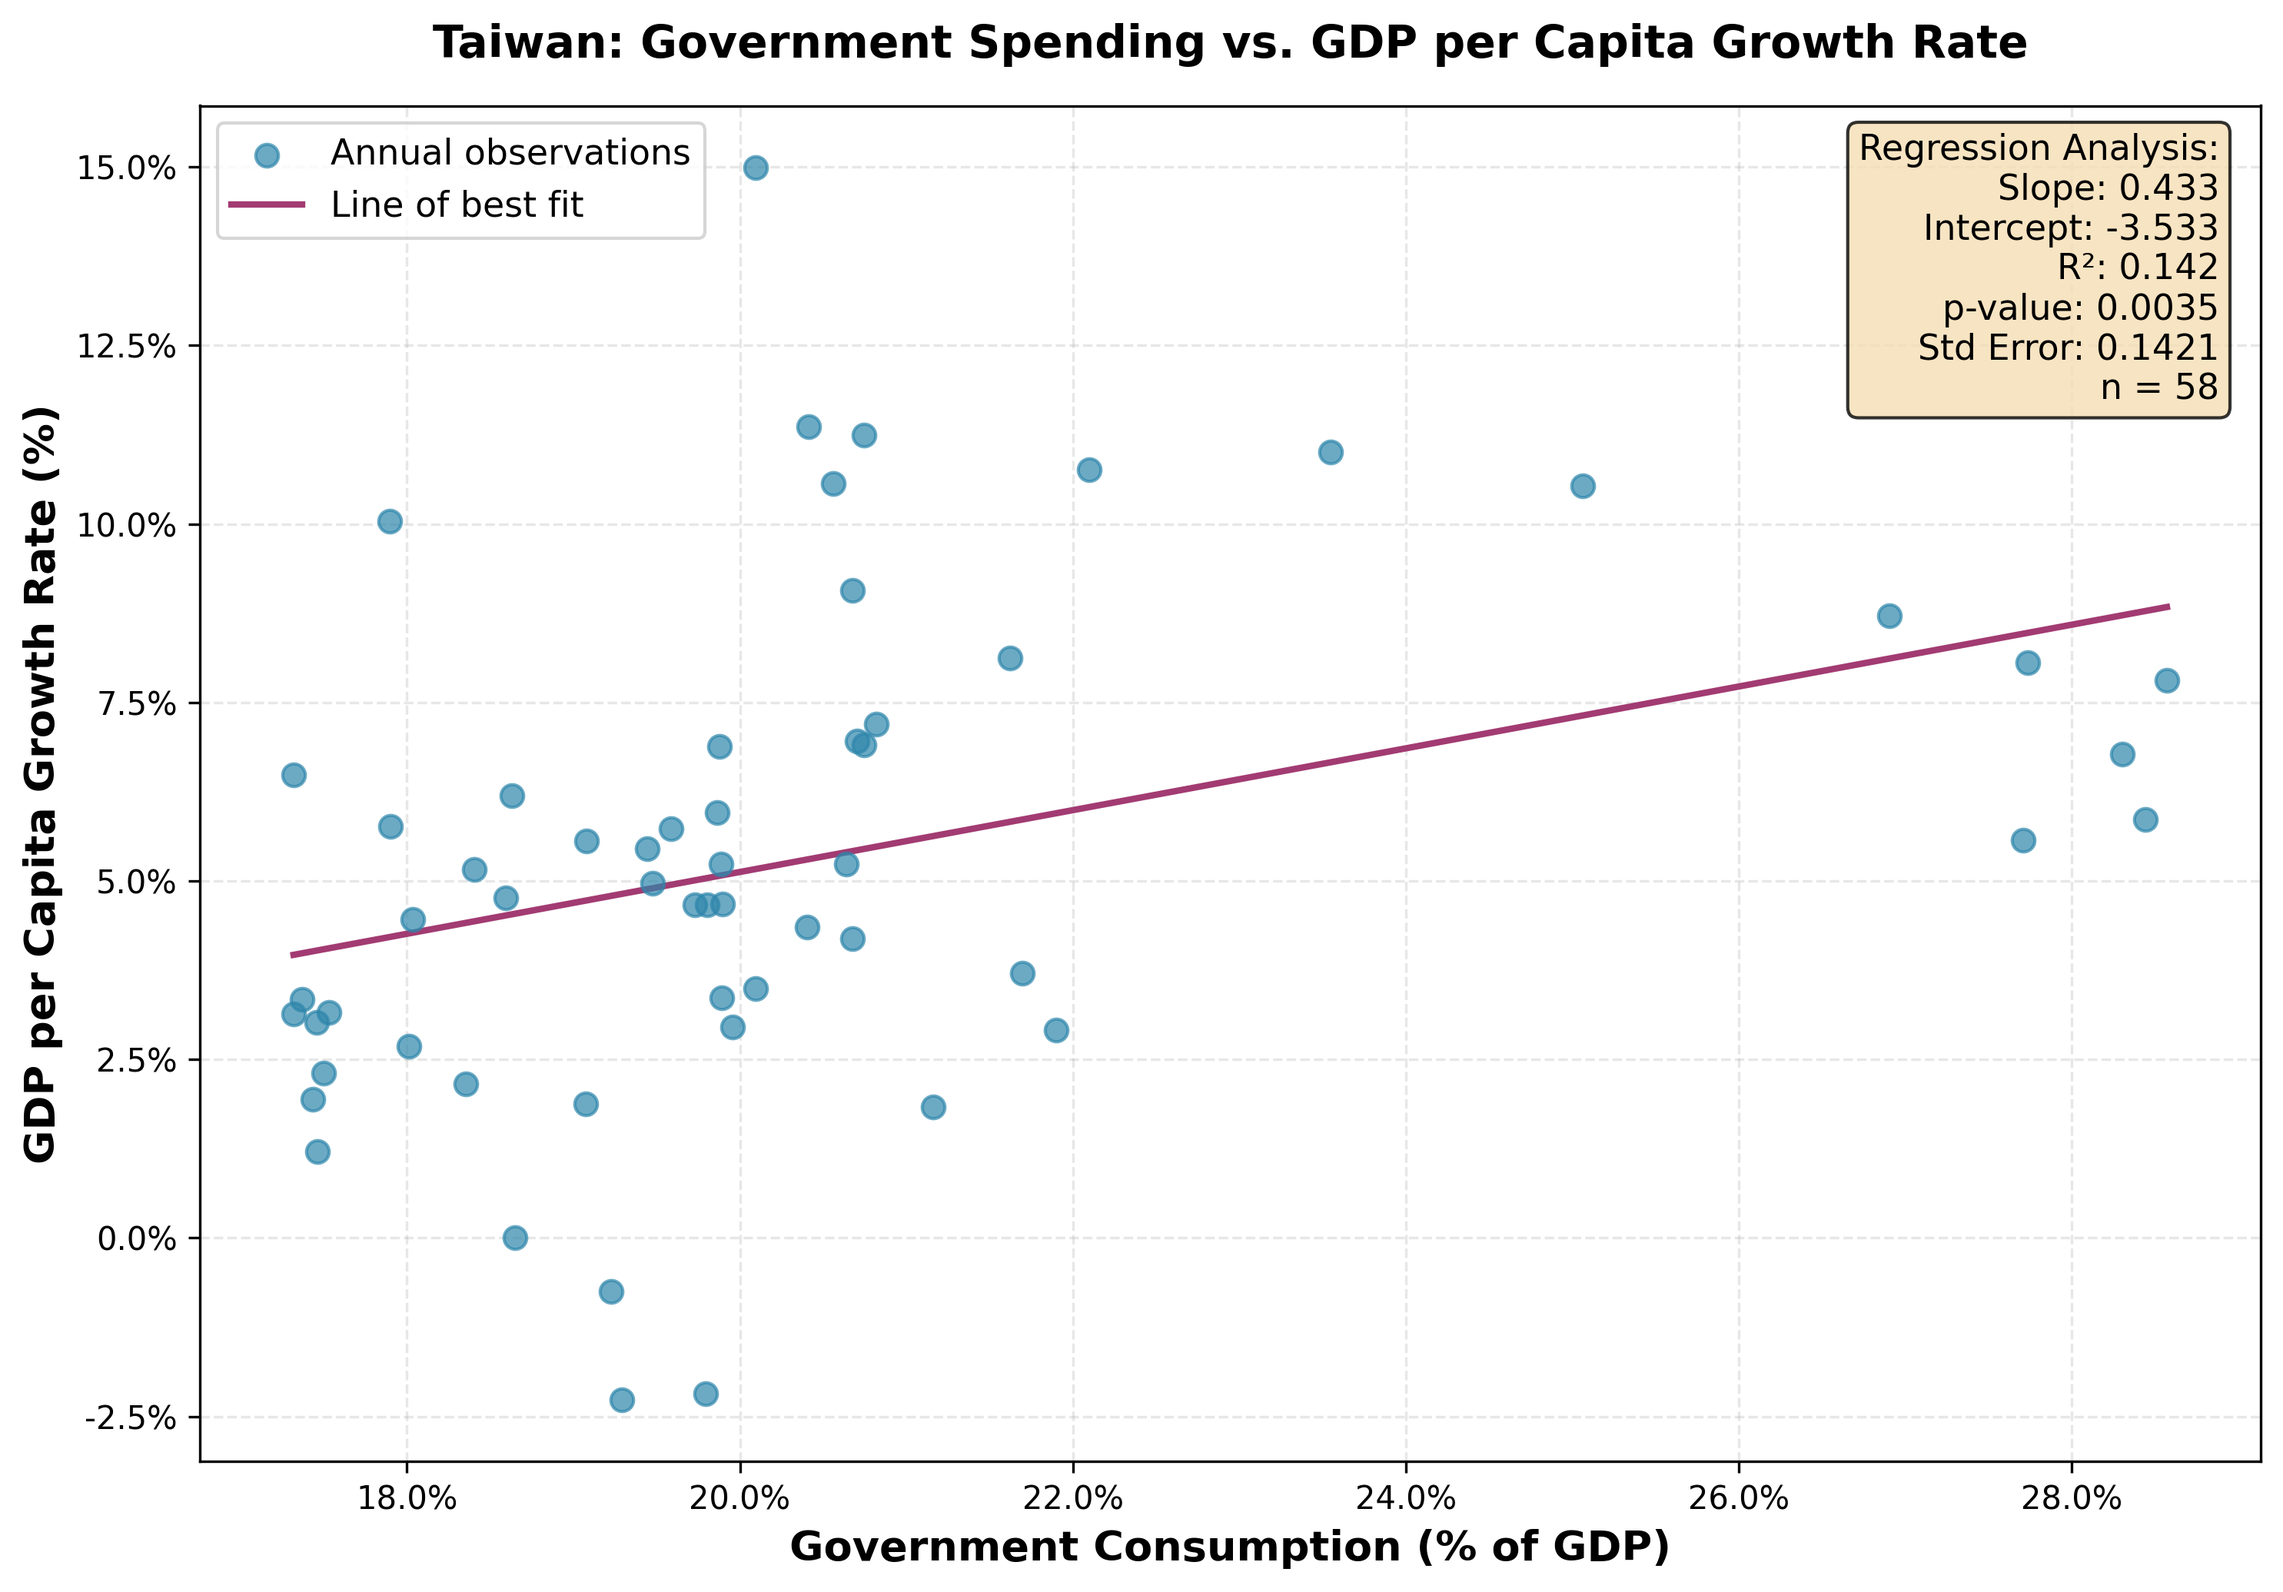
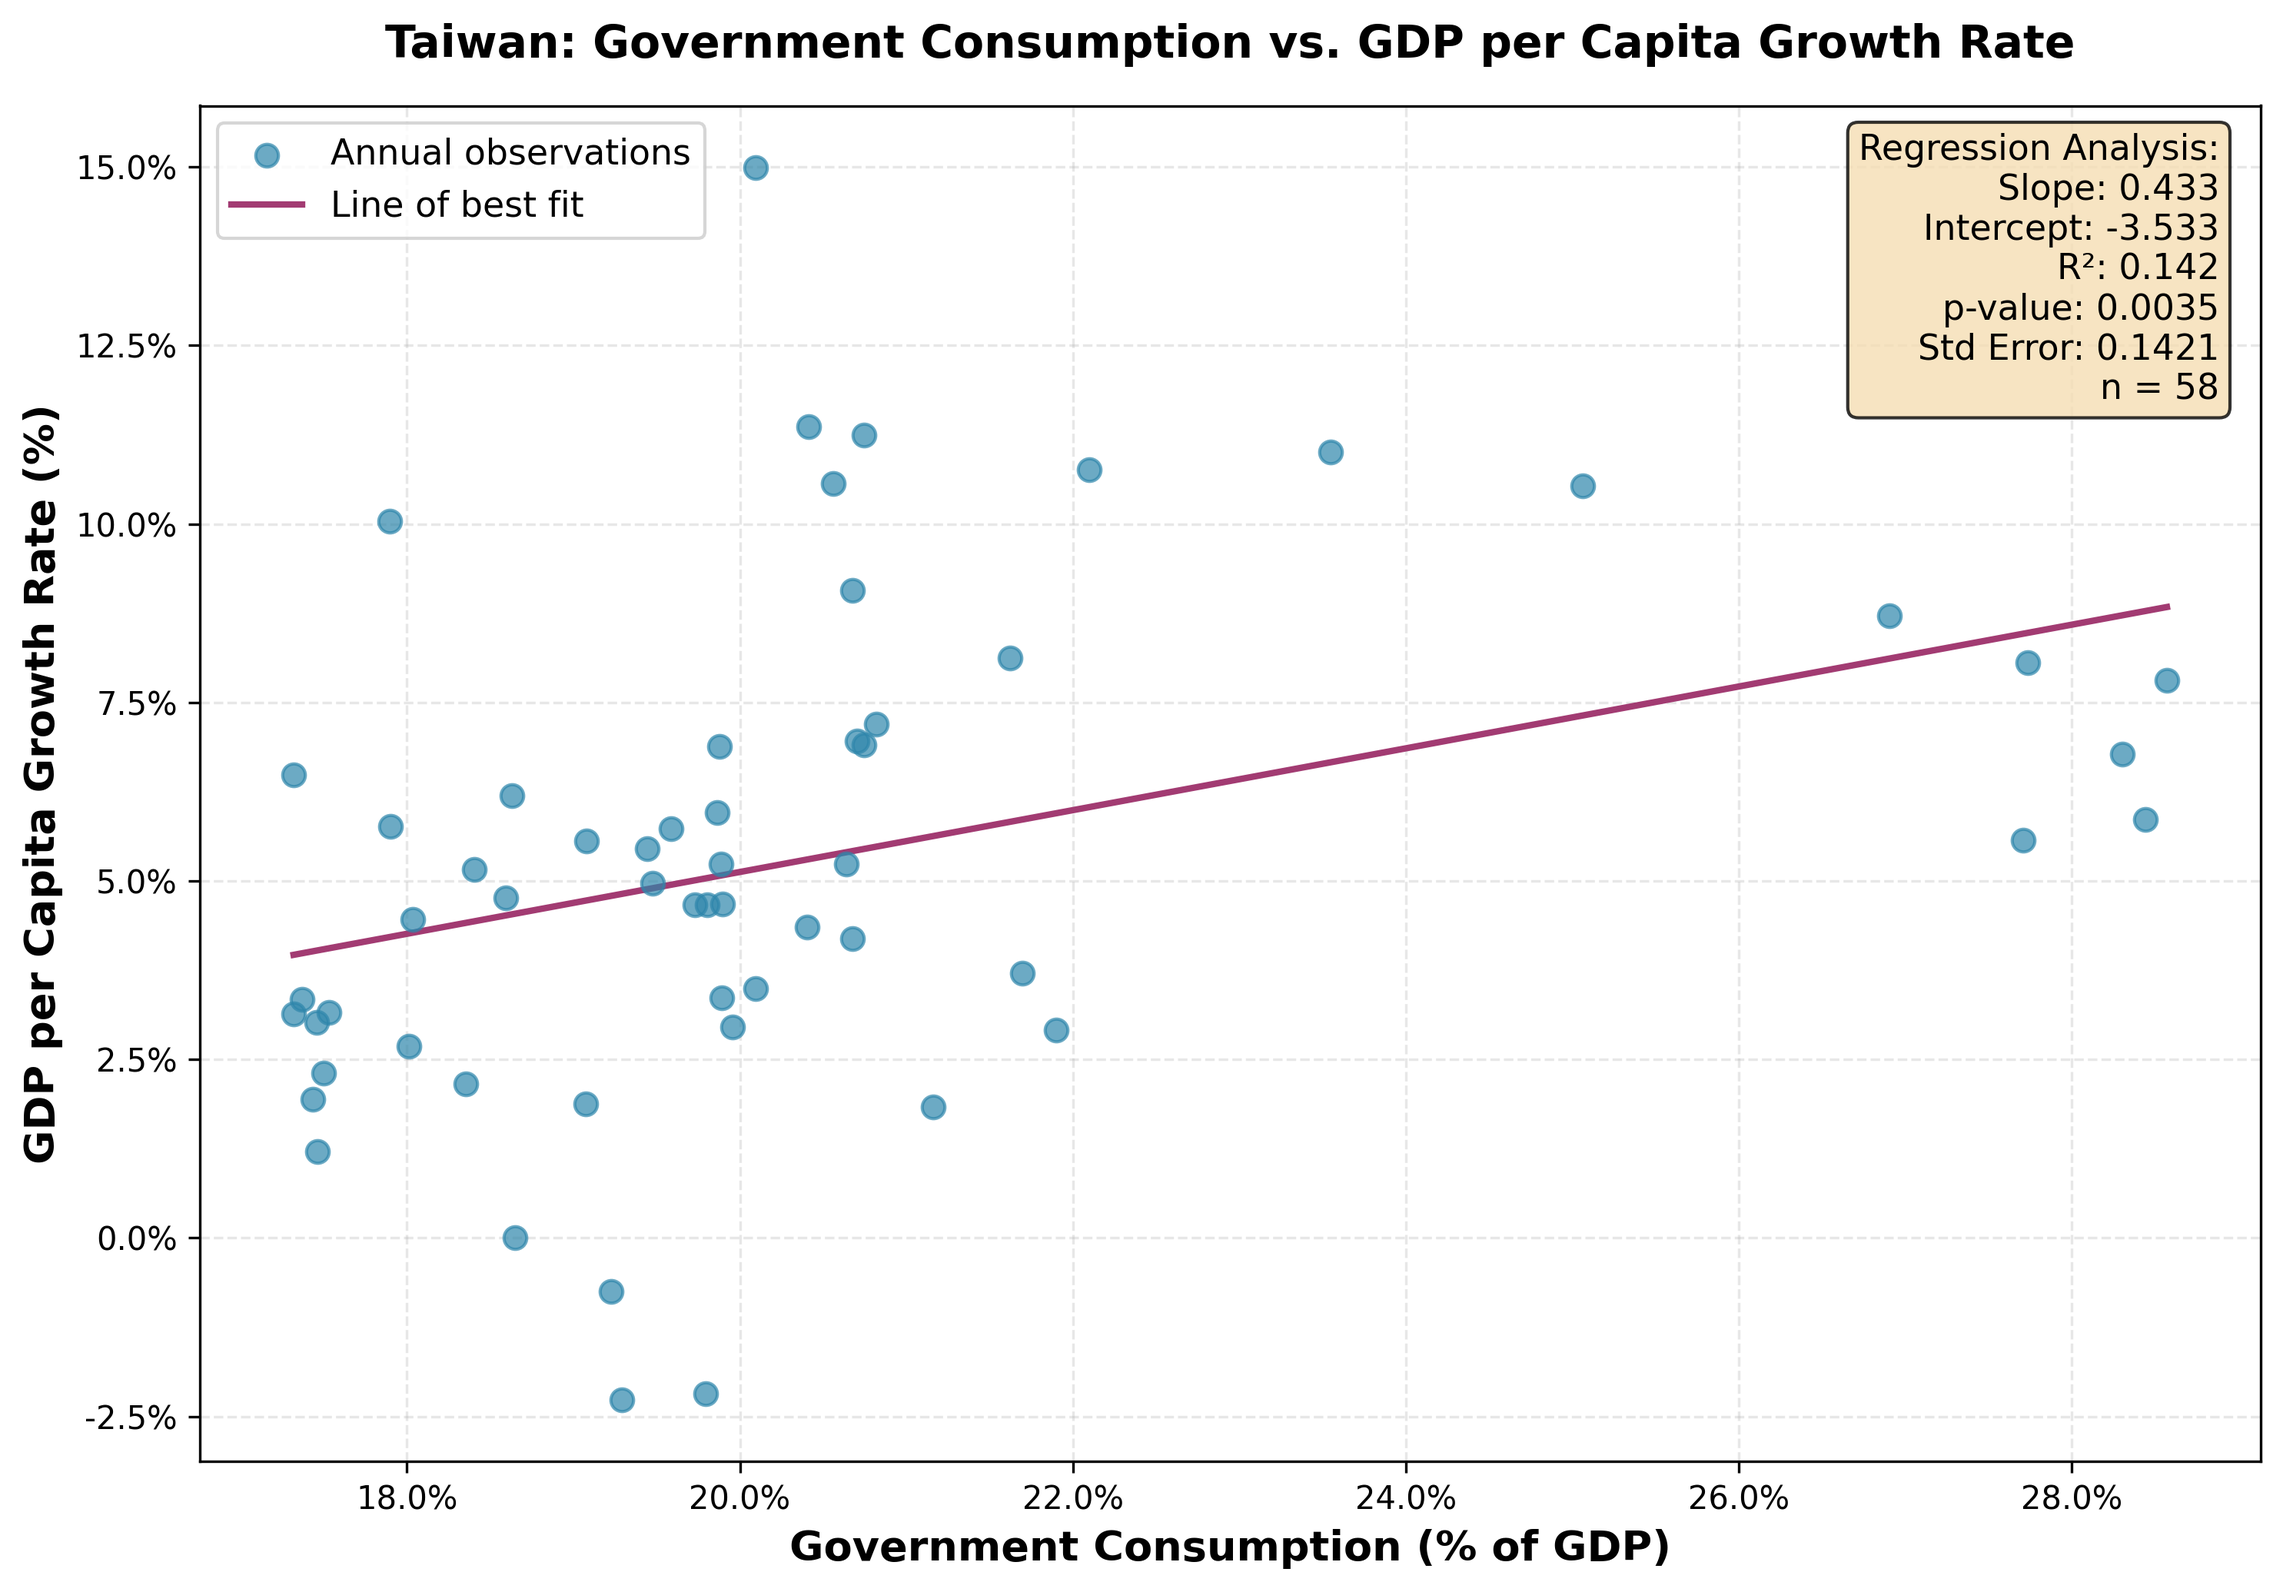
Fix

Changed region(s): [[0.1549, 0.0, 0.8983, 0.0618]]

diff --git a/Question 1.py b/Question 1.py
@@ -14,12 +14,55 @@ df_1950 = df_full[df_full['Year'] >= 1950].reset_index(drop=True)
 window_size = 5
 props = dict(boxstyle='round', facecolor='wheat', alpha=0.8)
 
+PHASES = [
+    ('Colonial\nModernisation', 1895, 1937, '#FFDDB3', '~2% p.a.'),
+    ('Recovery &\nLand Reform',  1945, 1962, '#B3FFD1', '~9% p.a.'),
+    ('Export-Led\nGrowth',       1962, 1980, '#B3D9FF', '~10% p.a.'),
+    ('High-Tech\nTransition',    1980, 2000, '#E8B3FF', '~6.5% p.a.'),
+    ('Innovation\nEconomy',      2000, 2022, '#FFFBB3', '~3% p.a.'),
+]
+
+
+def add_phase_bands(ax, df):
+    x_min = df['Year'].min()
+    x_max = df['Year'].max()
+    trans = ax.get_xaxis_transform()
+    LABEL_Y = 0.97  # fixed y for all labels (axes fraction)
+
+    for i, (name, start, end, color, growth) in enumerate(PHASES):
+        band_start = max(start, x_min)
+        band_end = min(end, x_max)
+        if band_start >= band_end:
+            continue
+
+        ax.axvspan(band_start, band_end, alpha=0.18, color=color, zorder=0)
+
+        if i == 0:
+            label_x, ha = band_end - 1, 'right'
+        else:
+            label_x, ha = (band_start + band_end) / 2, 'center'
+
+        ax.text(label_x, LABEL_Y, f"{name}\n{growth}", transform=trans,
+                ha=ha, va='top', fontsize=8.5, fontweight='bold',
+                color='#222222', multialignment=ha, linespacing=1.4)
+
+    # WWII gap label (only if the gap is visible in this chart)
+    wwii_start = max(1937, x_min)
+    wwii_end   = min(1945, x_max)
+    if wwii_end > wwii_start:
+        mid_wwii = (wwii_start + wwii_end) / 2
+        ax.text(mid_wwii, LABEL_Y, 'WWII', transform=trans,
+                ha='center', va='top', fontsize=8.5, fontweight='bold',
+                color='#222222', multialignment='center')
+
 
 def plot_log_graph(df, filename, title_suffix):
     """Plot a log-scale GDP per capita graph for the given dataframe."""
     moving_avg = uniform_filter1d(df['GDP per capita'].values, size=window_size, mode='nearest')
 
     fig, ax = plt.subplots(figsize=(14, 8))
+
+    add_phase_bands(ax, df)
 
     ax.plot(df['Year'], df['GDP per capita'],
             linewidth=2, color='#2E86AB', alpha=0.7, label='GDP per Capita')

diff --git a/Question 4c.py b/Question 4c.py
@@ -36,7 +36,7 @@ ax.plot(x_line, y_line, color='#A23B72', linewidth=2, label=f'Line of best fit')
 
 ax.set_xlabel('Government Consumption (% of GDP)', fontsize=13, fontweight='bold')
 ax.set_ylabel('GDP per Capita Growth Rate (%)', fontsize=13, fontweight='bold')
-ax.set_title('Taiwan: Government Spending vs. GDP per Capita Growth Rate',
+ax.set_title('Taiwan: Government Consumption vs. GDP per Capita Growth Rate',
              fontsize=14, fontweight='bold', pad=15)
 ax.grid(True, alpha=0.3, linestyle='--')
 
